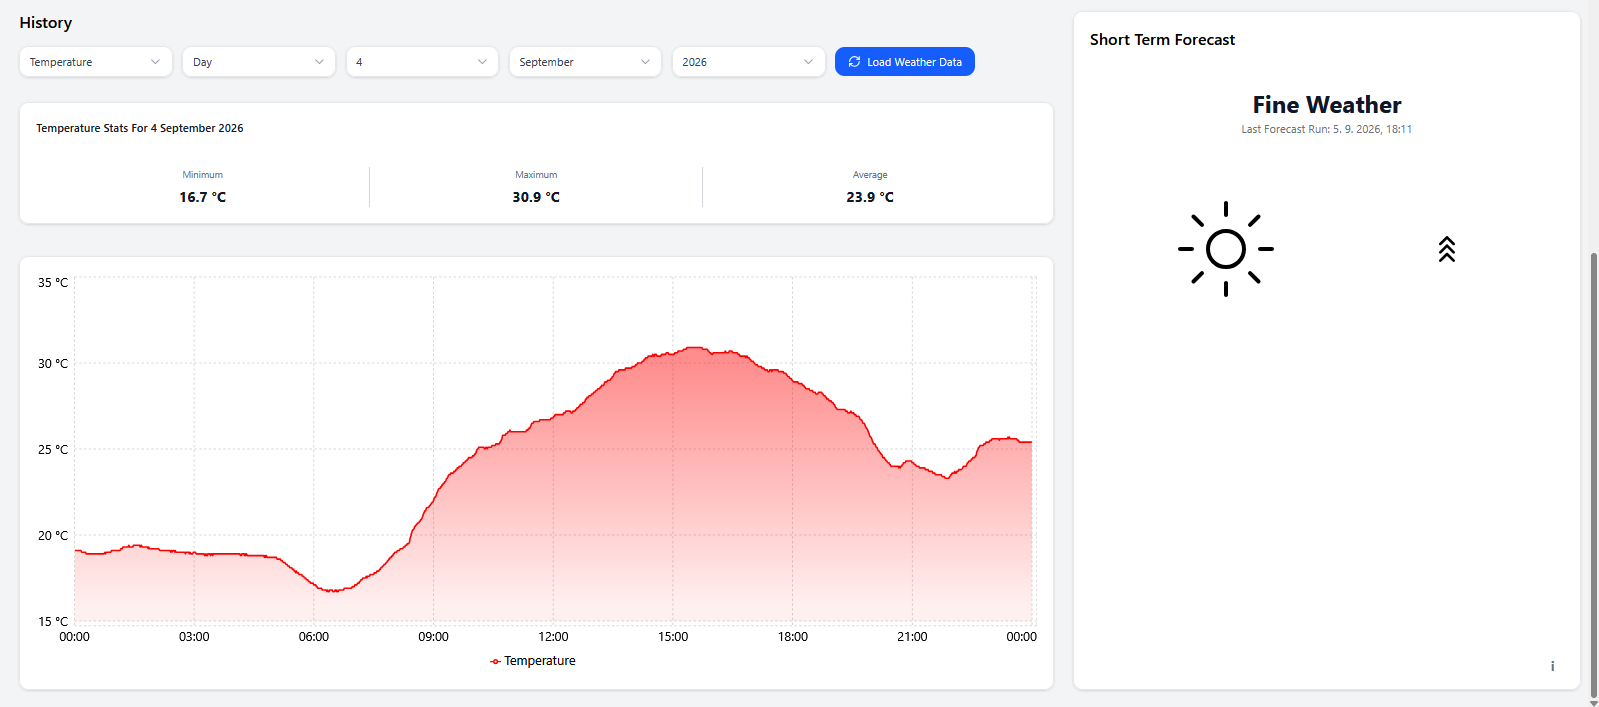
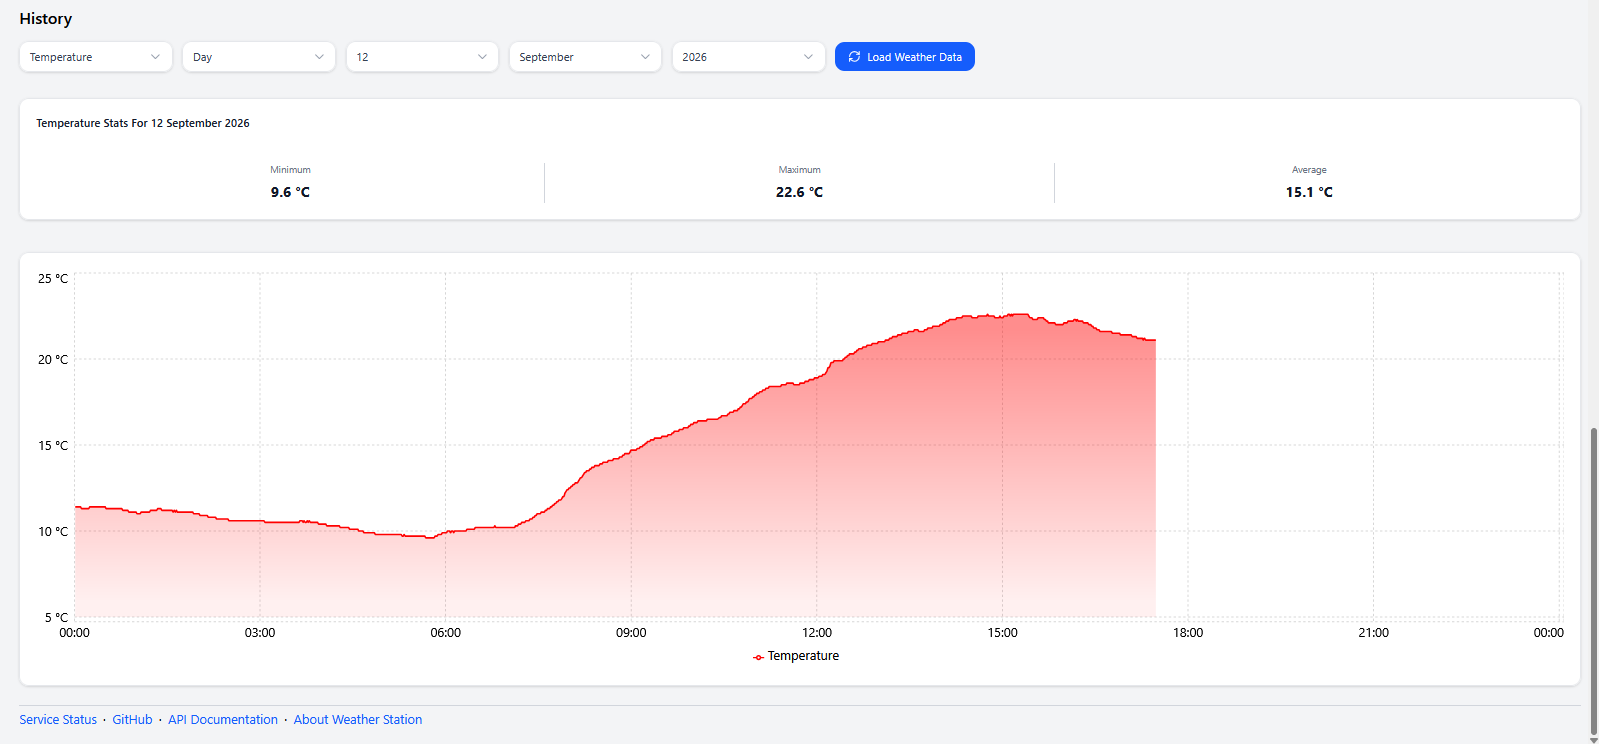
docs: update README

diff --git a/README.md b/README.md
@@ -2,17 +2,33 @@
 
 A full-stack web application built for my personal weather station. It provides a fast and minimalistic view of live weather data and historical observations using interactive charts. It also features a short-term weather forecast based on a modified Zambretti algorithm.
 
-**Live Demo:** https://weather-station-konjice.onrender.com/
+# https://weather-station-konjice.onrender.com/
 
 ## Features
 
-### Live Data Dashboard & Short-Term Forecast
+### Live Data Dashboard & Current Weather Conditions
 
 The dashboard provides a quick overview of the latest data reported by the weather station, including temperature, humidity, pressure, wind speed and wind direction. It also displays the station's local time, the time of the latest update, and a status indicator.
 
 The dashboard also includes current conditions card. It includes general weather conditions description and icon. Some additional parameters such as visibility, cloud cover, air quality index and more are also displayed. Information on this card is collected from [OpenWeather](https://openweathermap.org/).
 
 ![dashboard](screenshots/dashboard.png)
+
+### Short Term Forecast
+
+A short-term weather forecast is generated using a modified Zambretti algorithm. The forecast displays a short text description along with weather icons for easier interpretation.
+
+An arrow indicates the expected trend of the weather: pointing down when conditions are expected to worsen (e.g. rain is approaching) and pointing up when conditions are expected to improve or stabilize.
+
+### Precipitation Radar
+
+The card includes an embedded Windy iframe displaying the precipitation radar, allowing users to view current precipitation conditions at weather station location and surrounding area.
+
+### Moon Information
+
+The Moon card presents the moon phase, moon icon, illumination, and distance as the primary parameters. Secondary information includes moonrise and moonset times, dates of upcoming moon phases, as well as the dates of upcoming special lunar events and moon eclipses.
+
+![precipitation radar, short term forecast and moon information cards](screenshots/middle_section.png)
 
 ### Statistics & Charts
 
@@ -24,15 +40,9 @@ The statistics card displays the **minimum**, **maximum**, and **average** value
 
 Wind direction has a dedicated visualization that represents directions as degrees on a circular chart. Since this can be difficult to interpret at a glance, a wind rose is also provided to show the dominant wind directions more clearly.
 
-![statistics, chart and short term forecast](screenshots/history_section.png)
+![history section of webapp](screenshots/history_section.png)
 
 ![Wind direction chart and wind rose](screenshots/wind_direction_chart_rose_chart.png)
-
-### Short Term Forecast
-
-A short-term weather forecast is generated using a modified Zambretti algorithm. The forecast displays a short text description along with weather icons for easier interpretation.
-
-An arrow indicates the expected trend of the weather: pointing down when conditions are expected to worsen (e.g. rain is approaching) and pointing up when conditions are expected to improve or stabilize.
 
 ## Tech Stack
 
@@ -109,8 +119,8 @@ Additional adjustments are then applied to the forecast score:
 
 - Rising pressure during summer subtracts 1 from the final score, as rising pressure during summer generally indicates more stable weather.
 - Falling pressure during winter adds 1 to the final score, as falling pressure during winter can indicate approaching precipitation.
-- Wind directions between **180° and 314°** receive a score of 1.5, as southern and western winds can occur ahead of approaching fronts.
-- Wind directions between **315° and 45°** receive a score of 0 and therefore have no effect on the forecast.
+- Wind directions between **180°** and **314°** receive a score of 1.5, as southern and western winds can occur ahead of approaching fronts.
+- Wind directions between **315°** and **45°** receive a score of 0 and therefore have no effect on the forecast.
 - Other wind directions receive a score of 0.25.
 
 The wind-direction score is further adjusted according to wind speed:
